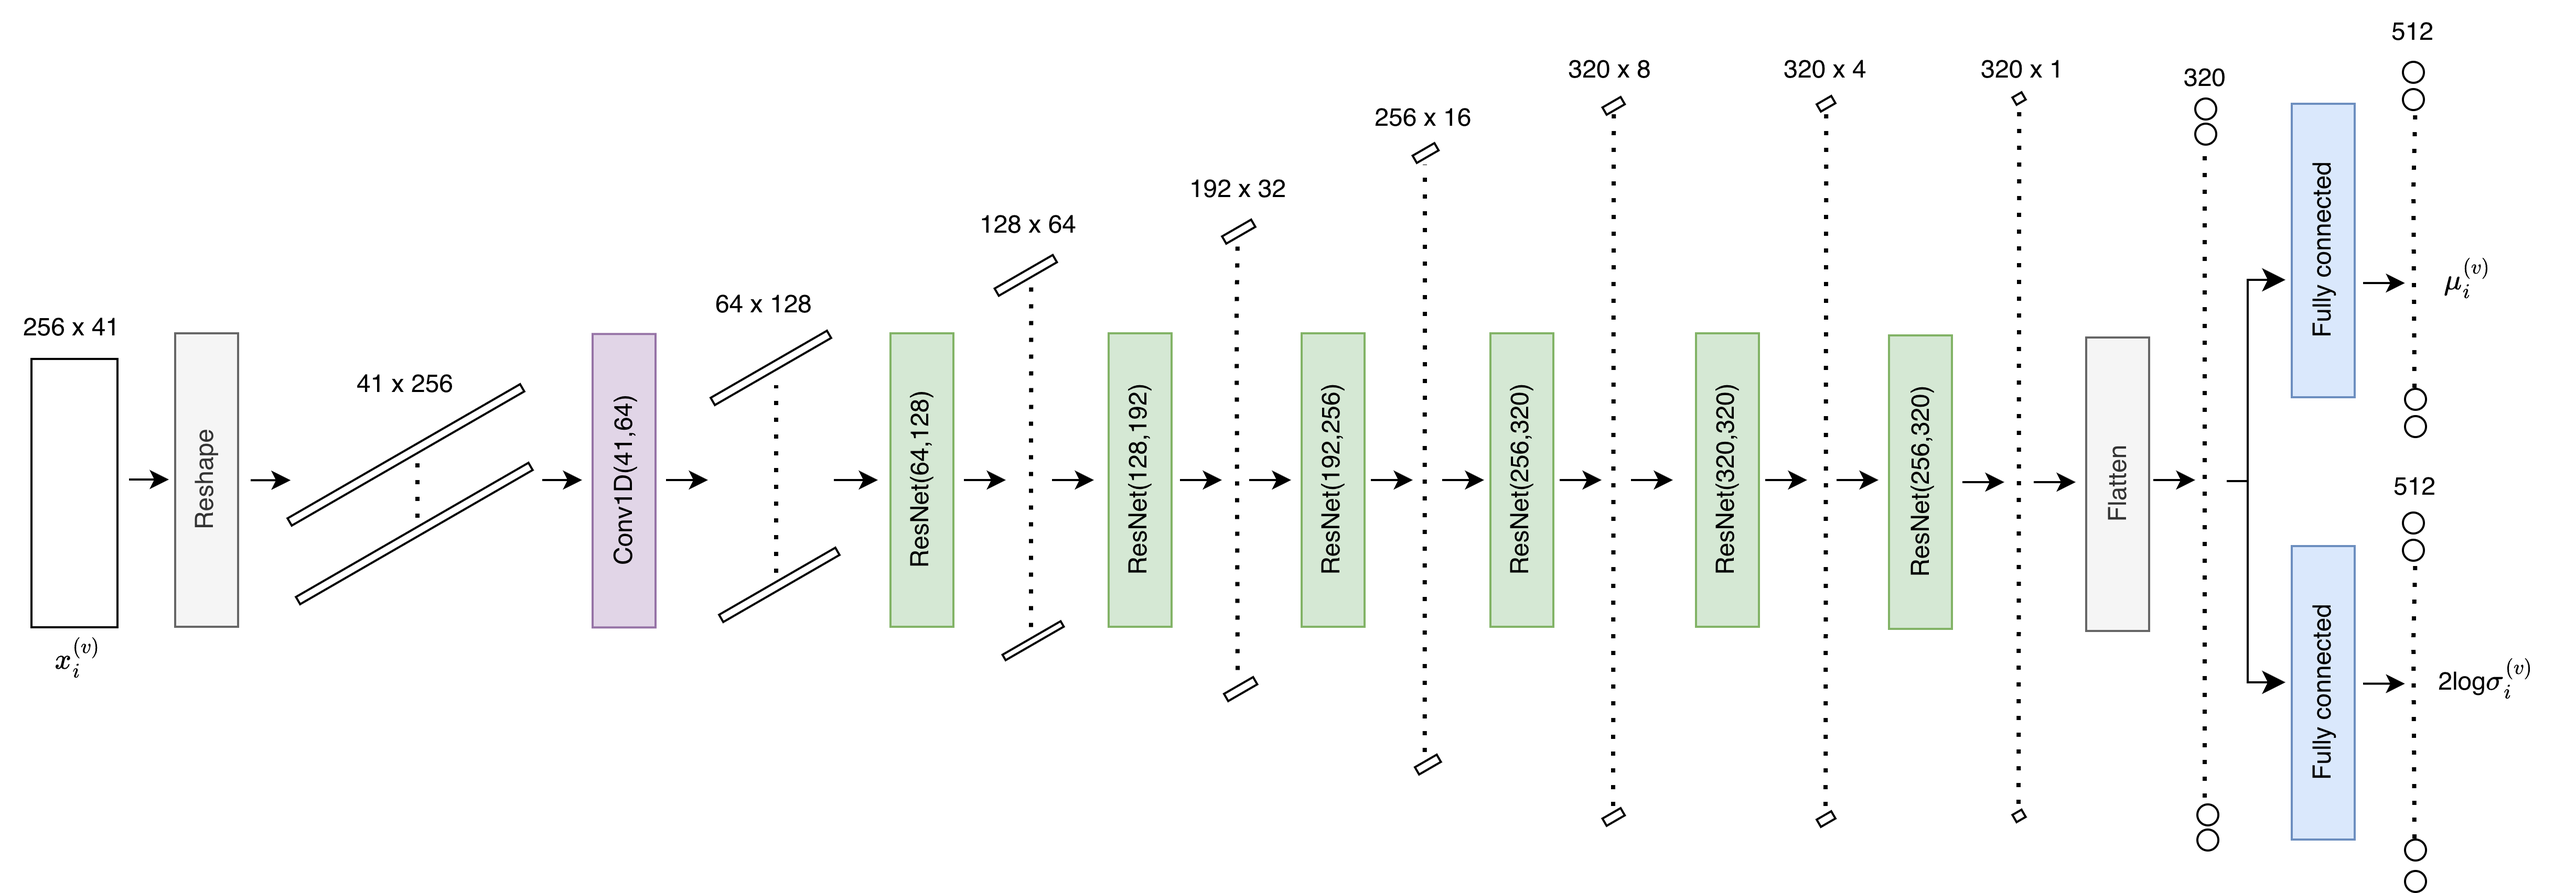
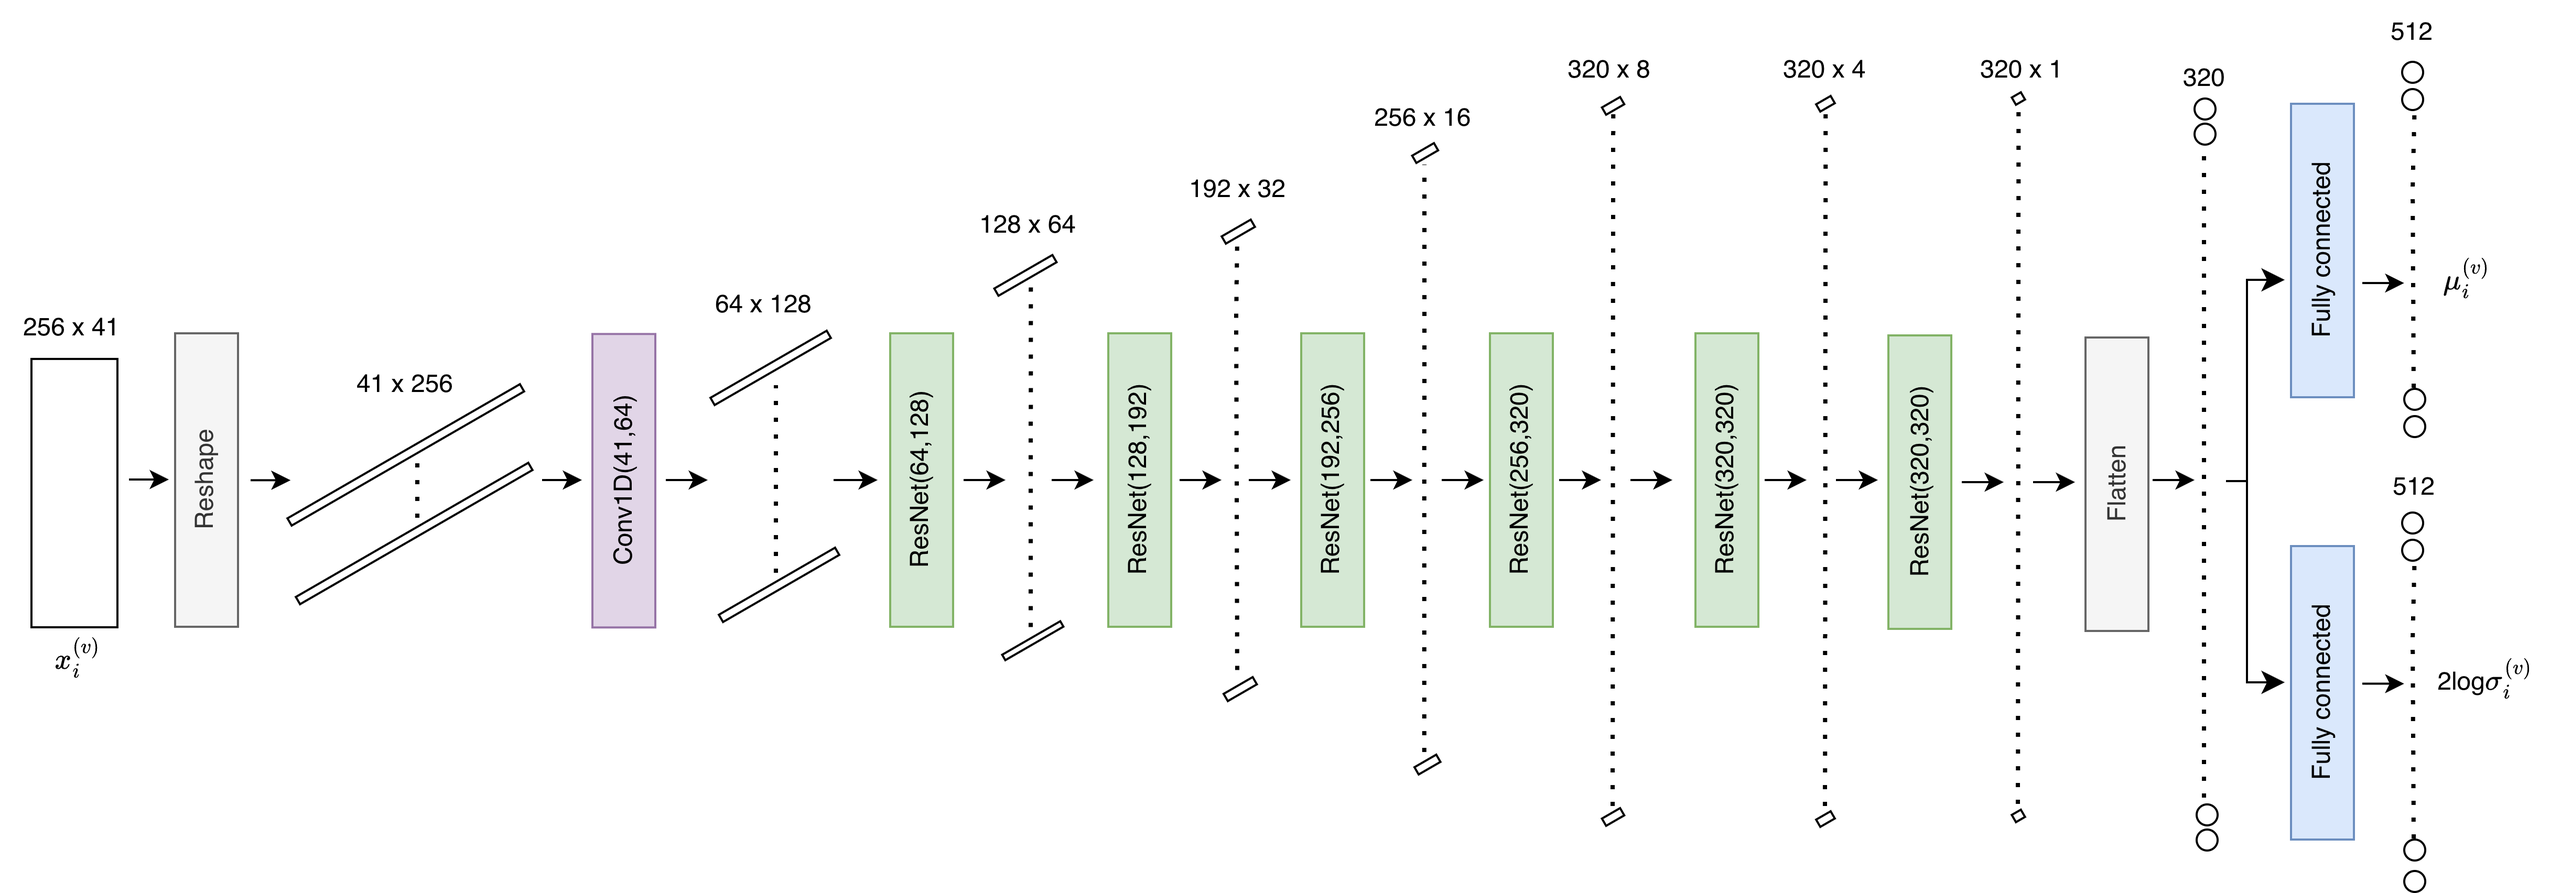
single cell classifier

diff --git a/networks/scMNC.py b/networks/scMNC.py
@@ -15,24 +15,24 @@ class scEncoder(nn.Module):
         self.latent_dim = latent_dim
         self.hidden_dim = hidden_dim
         self.input_dim = input_dim
-        self.encoder = nn.Sequential(  # input shape (, input_dim)
-            nn.Linear(self.input_dim, self.hidden_dim),  
-            nn.ReLU(),
-            nn.Linear(self.hidden_dim, self.hidden_dim),  
-            nn.ReLU(),
-            nn.Linear(self.hidden_dim, self.latent_dim),  
-            nn.ReLU(),
-        )
         # self.encoder = nn.Sequential(  # input shape (, input_dim)
-        #     nn.Linear(self.input_dim, 2*self.input_dim),  
-        #     nn.BatchNorm1d(2*self.input_dim),
-        #     nn.LeakyReLU(),
-        #     nn.Dropout(0.6),
-        #     nn.Linear(2*self.input_dim, self.latent_dim),
-        #     nn.BatchNorm1d(self.latent_dim),
-        #     nn.LeakyReLU(),
-        #     nn.Dropout(0.6),
+        #     nn.Linear(self.input_dim, self.hidden_dim),  
+        #     nn.ReLU(),
+        #     nn.Linear(self.hidden_dim, self.hidden_dim),  
+        #     nn.ReLU(),
+        #     nn.Linear(self.hidden_dim, self.latent_dim),  
+        #     nn.ReLU(),
         # )
+        self.encoder = nn.Sequential(  # input shape (, input_dim)
+            nn.Linear(self.input_dim, 2*self.input_dim),  
+            nn.BatchNorm1d(2*self.input_dim),
+            nn.LeakyReLU(),
+            nn.Dropout(0.6),
+            nn.Linear(2*self.input_dim, self.latent_dim),
+            nn.BatchNorm1d(self.latent_dim),
+            nn.LeakyReLU(),
+            nn.Dropout(0.6),
+        )
         # self.encoder = nn.Sequential(  # input shape (, input_dim)
         #     nn.Linear(self.input_dim, self.hidden_dim),  
         #     nn.BatchNorm1d(self.hidden_dim),
@@ -65,24 +65,25 @@ class scDecoder(nn.Module):
         self.latent_dim = latent_dim
         self.hidden_dim = hidden_dim
         self.output_dim = output_dim
-        self.decoder = nn.Sequential(
-            nn.Linear(self.latent_dim, self.hidden_dim), 
-            nn.ReLU(),
-            nn.Linear(self.hidden_dim, self.hidden_dim), 
-            nn.ReLU(),
-            nn.Linear(self.hidden_dim, self.output_dim),  
-            nn.ReLU(),
-        )
-        # self.decoder = nn.Sequential(  # input shape (, input_dim)
-        #     nn.Linear(self.latent_dim, self.hidden_dim),  
-        #     nn.BatchNorm1d(self.hidden_dim),
-        #     nn.LeakyReLU(),
-        #     nn.Dropout(0.6),
-        #     nn.Linear(self.hidden_dim, self.output_dim),
-        #     nn.BatchNorm1d(self.output_dim),
-        #     nn.LeakyReLU(),
-        #     nn.Dropout(0.6),
+        # self.decoder = nn.Sequential(
+        #     nn.Linear(self.latent_dim, self.hidden_dim), 
+        #     nn.ReLU(),
+        #     nn.Linear(self.hidden_dim, self.hidden_dim), 
+        #     nn.ReLU(),
+        #     nn.Linear(self.hidden_dim, self.output_dim),  
+        #     nn.ReLU(),
         # )
+        self.decoder = nn.Sequential(  # input shape (, input_dim)
+            nn.Linear(self.latent_dim, self.output_dim),  
+            nn.BatchNorm1d(self.output_dim),
+            nn.LeakyReLU(),
+            nn.Dropout(0.6),
+            nn.Linear(self.output_dim, 2*self.output_dim),
+            nn.BatchNorm1d(2*self.output_dim),
+            nn.LeakyReLU(),
+            nn.Dropout(0.6),
+            nn.Linear(2*self.output_dim, self.output_dim),
+        )
 
     def forward(self, z):
         x_hat = self.decoder(z)

diff --git a/networks/ClfscMNC.py b/networks/ClfscMNC.py
@@ -29,8 +29,23 @@ class ClfscMNC_FC(nn.Module):
 
         self.resnet = nn.Sequential(*layers)
         self.fc_out = nn.Linear(hidden_dim, n_classes)
+        self.encoder = nn.Sequential(  # input shape (, input_dim)
+            nn.Linear(n_features, 2*n_features),  
+            nn.BatchNorm1d(2*n_features),
+            nn.LeakyReLU(),
+            nn.Dropout(0.6),
+            nn.Linear(2*n_features, n_features),
+            nn.BatchNorm1d(n_features),
+            nn.LeakyReLU(),
+            nn.Dropout(0.6),
+        )
+        self.final_layer = nn.Linear(n_features, n_classes)
+        self.softmax = nn.Softmax(dim=1)
 
     def forward(self, x):
-        out = self.resnet(x)
-        out = self.fc_out(actvn(out))
+        out = self.encoder(x)
+        # out = self.fc_out(actvn(out))
+        # out = self.fc_out(actvn(out))
+        out = self.final_layer(out)
+        out = self.softmax(out)
         return out

diff --git a/networks/ClfCelebA.py b/networks/ClfCelebA.py
@@ -16,8 +16,8 @@ class ClfImg(nn.Module):
         h = self.dropout(h)
         h = h.view(h.size(0), -1)
         h = self.linear(h)
-        # out = self.sigmoid(h)
-        return h
+        out = self.sigmoid(h)
+        return out
 
     def get_activations(self, x_img):
         h = self.feature_extractor(x_img)

diff --git a/clfs/celeba_clf.py b/clfs/celeba_clf.py
@@ -1,12 +1,6 @@
-import os
-import math
-import numpy as np
-
 import torch
 from torch import nn
-import torch.nn.functional as F
 import pytorch_lightning as pl
-import wandb
 from sklearn.metrics import average_precision_score
 
 from networks.ClfCelebA import ClfImg, ClfText
